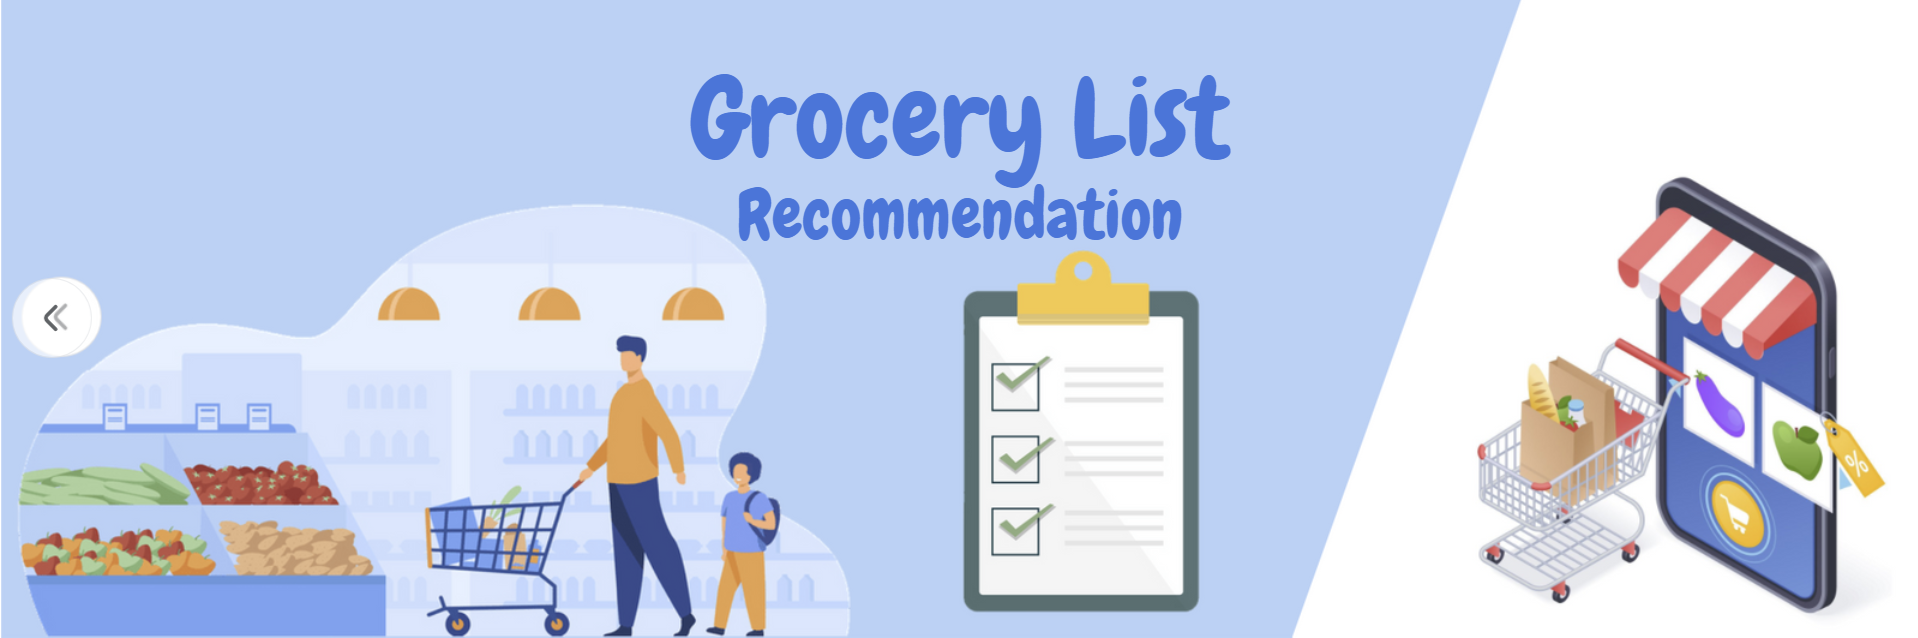
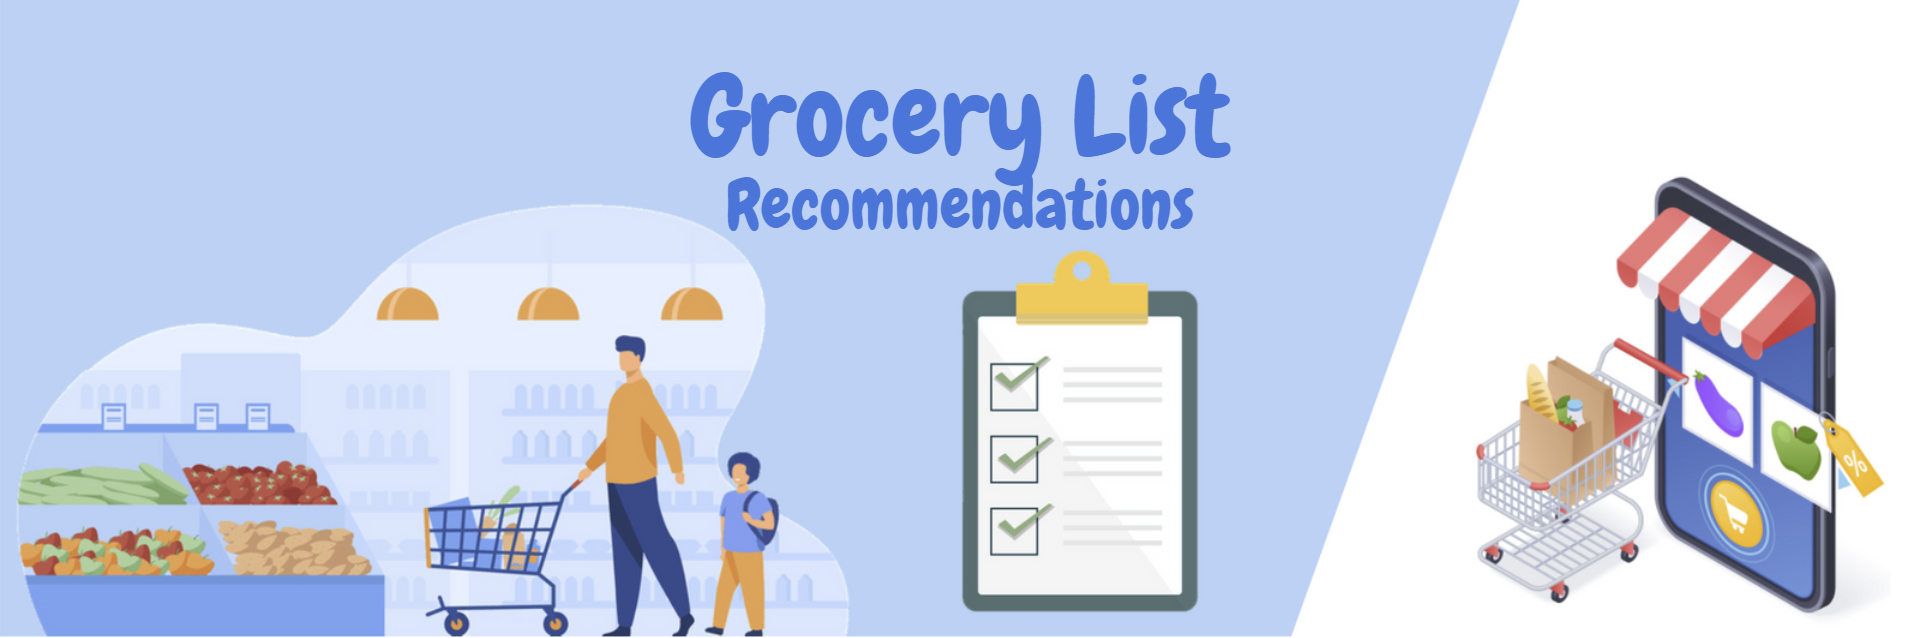
update

diff --git a/templates/cart.html b/templates/cart.html
@@ -12,7 +12,7 @@
 </head>
 <body style="background-color: white;">
 	<nav class="navbar navbar-expand-md" style ="background-color: #3773DA;height:60px;">
-        <a href="{{url_for('login_page')}}"><img src="./static/images/house-icon.png" style="width:30px;" alt= "main-page icon"></a>
+        <a href="{{url_for('login_page')}}"><img src="./static/images/house-icon.png" style="width:30px;" alt= "main-page icon" id="home-login"></a>
         <button class="navbar-toggler navbar-light" type="button" data-toggle="collapse" data-target="#navbarSupportedContent" aria-controls="navbarSupportedContent" aria-expanded="false" aria-label="Toggle navigation">
             <span class="navbar-toggler-icon"></span>
         </button>
@@ -55,22 +55,24 @@
                                 <th>Remove</th>
                             </tr>
                         </thead>
-                        <tbody>
+                        <tbody id="grocery-recommendations">
+                            {% for d in grocery_list: %}
                             <tr style="text-align:center;">
                                 <td class="thumbnail-img">
-                                    <a href="#">
-                                    <img class="img-fluid" src="images/vegevariety.png" alt="" style="width:90px;" >
-                                    </a>
+                                    <img class="img-fluid" src={{d.img}} alt="" style="width:120px;
+                                    height:120px;
+                                    border-radius: 25px;
+                                    border-color:#3773DA;
+                                    border-style: solid;
+                                    border-width: medium;">
                                 </td>
                                 <td class="name-pr">
-                                    <a href="#">
-                                Product Name
-                            </a>
+                                    {{d.product}}
                                 </td>
                                 <td class="price-pr">
                                     <p>$ 12.99</p>
                                 </td>
-                                <td class="quantity-box"><input type="number" size="4" value="1" min="0" step="1" class="c-input-text qty text"></td>
+                                <td class="quantity-box"><input type="number" size="3" value="1" min="0" step="1" class="c-input-text qty text"></td>
                                 <td class="total-pr">
                                     <p>$ 12.99</p>
                                 </td>
@@ -80,6 +82,7 @@
                             </a>
                                 </td>
                             </tr>
+                            {% endfor %}
                         </tbody>
                     </table>
                 </div>
@@ -108,7 +111,14 @@
 
         <!--Total Summary-->
         <div class="row my-5">
-            <div class="col-lg-8 col-sm-12"></div>
+            <div class="col-lg-8 col-sm-12">
+                <h6>You May Also Like...</h6>
+                <div class = "row">
+                    <div class="col-md-4">Product 1 </div>
+                    <div class="col-md-4">Product 2 </div>
+                    <div class="col-md-4">Product 3 </div>
+                </div>
+            </div>
             <div class="col-lg-4 col-sm-12">
                 <div class="order-box">
                     <h5>Order Summary</h5>

diff --git a/templates/landing.html b/templates/landing.html
@@ -41,7 +41,7 @@
     </nav>
     <div class="container-fluid">
         <div class="row">
-            <img src="./static/images/Banner1.PNG" class="img-fluid">
+            <img src="./static/images/Banner.PNG" class="img-fluid">
         </div>
     </div>
     <div class = "container-fluid" style="background-color:#3773da;padding:20px;">
@@ -109,7 +109,6 @@
         </div>
     </div>
 
-    
 	<script src="https://code.jquery.com/jquery-3.2.1.slim.min.js" integrity="sha384-KJ3o2DKtIkvYIK3UENzmM7KCkRr/rE9/Qpg6aAZGJwFDMVNA/GpGFF93hXpG5KkN" crossorigin="anonymous"></script>
 	<script src="https://cdnjs.cloudflare.com/ajax/libs/popper.js/1.12.9/umd/popper.min.js" integrity="sha384-ApNbgh9B+Y1QKtv3Rn7W3mgPxhU9K/ScQsAP7hUibX39j7fakFPskvXusvfa0b4Q" crossorigin="anonymous"></script>
 	<script src="https://maxcdn.bootstrapcdn.com/bootstrap/4.0.0/js/bootstrap.min.js" integrity="sha384-JZR6Spejh4U02d8jOt6vLEHfe/JQGiRRSQQxSfFWpi1MquVdAyjUar5+76PVCmYl" crossorigin="anonymous"></script> 

diff --git a/templates/login.html b/templates/login.html
@@ -80,6 +80,5 @@
 	<script src="https://code.jquery.com/jquery-3.2.1.slim.min.js" integrity="sha384-KJ3o2DKtIkvYIK3UENzmM7KCkRr/rE9/Qpg6aAZGJwFDMVNA/GpGFF93hXpG5KkN" crossorigin="anonymous"></script>
 	<script src="https://cdnjs.cloudflare.com/ajax/libs/popper.js/1.12.9/umd/popper.min.js" integrity="sha384-ApNbgh9B+Y1QKtv3Rn7W3mgPxhU9K/ScQsAP7hUibX39j7fakFPskvXusvfa0b4Q" crossorigin="anonymous"></script>
 	<script src="https://maxcdn.bootstrapcdn.com/bootstrap/4.0.0/js/bootstrap.min.js" integrity="sha384-JZR6Spejh4U02d8jOt6vLEHfe/JQGiRRSQQxSfFWpi1MquVdAyjUar5+76PVCmYl" crossorigin="anonymous"></script> 
-	<script src="app.js"></script>
 </body>
 </html>

diff --git a/static/js/app.js b/static/js/app.js
@@ -1,3 +1,6 @@
-d3.json("/cart").then(function(data) {
-    console.log(data);
+var home_login = d3.selectAll("#home-login")
+
+home_login.on("click", function(){
+    var grocery = d3.selectAll("#grocery-recommendations")
+    grocery.html("");
 })

diff --git a/static/css/style.css b/static/css/style.css
@@ -1,3 +1,12 @@
+/*Cart Page*/
+.cart-img{
+    width:120px;
+    height:120px;
+    border-radius: 25px;
+    border-color:#3773DA;
+    border-width: medium;
+}
+
 /*Login Page*/
 .user_card {
         height: 400px;

diff --git a/app.py b/app.py
@@ -39,6 +39,19 @@ store = Base.classes.store
 session = Session(engine)
 grocery_list = []
 
+# Grocery List Recommendations
+server = "grocery.cu51j1bqdgvr.us-east-2.rds.amazonaws.com"
+database = "postgres"
+port = "5432"
+username = "postgres"
+password = "postgres123"
+conn = f"postgres://{username}:{password}@{server}:{port}/{database}"
+
+user_df = pd.read_sql_table("user_df", conn)
+grocery_df = pd.read_sql_table("grocery_df", conn)
+orders = pd.read_sql_table("order_df", conn)
+cluster_top10 = pd.read_sql_table("cluster_top10_img", conn)
+
 # Main route to render index.html
 @app.route("/")
 def login_page():
@@ -53,55 +66,58 @@ def grocery():
         email = str(user_email)
         
         # Convert e-mail to user_id
-        user_df = pd.read_csv("data/user_df.csv")
         user_id = int(user_df.loc[user_df['email'] == email, 'user_id'])
         
         # Grab past order from 
-        order = pd.read_csv("data/order_df.csv")
-        order = order[order['user_id'] == user_id].sort_values('add_to_cart_order')
+        order = orders[orders['user_id'] == user_id].sort_values('add_to_cart_order')
         # Spilt repeat orders and non-repeat orders
         repeat = order[order['reordered'] > 0]
         nonrepeat = order[order['reordered'] == 0]
         
         # Grab user past orders in kmean prediction format
-        grocery_df = pd.read_csv("data/grocery_df.csv")
+        grocery_df = pd.read_sql_table("grocery_df", conn)
         user_order = grocery_df[grocery_df['user_id'] == user_id].drop('user_id', axis = 1)
         
         # Fit user_id on model, return cluster 
         kmeans = load('data/kmeans.joblib') 
         cluster_num = kmeans.predict(user_order.to_numpy())[0]
-        cluster_top10 = pd.read_csv("data/cluster_top10_img.csv")
         top10 = cluster_top10[cluster_top10['cluster'] == cluster_num]
         
         # Set starting variables
-        # grocery_list = []
         n = 0
-        for product in top10['product_name']:
-            url_list = top10.loc[top10['product_name']==product, 'img_url']
-            repeat_check = repeat[repeat['product_name'] == product]
-            nonrepeat_check = nonrepeat[nonrepeat['product_name'] == product]
-            
-            if (n==3):
+        for product in repeat['product_name']:
+            top10_check = top10[top10['product_name'] == product]
+            if (n == 3):
                 break
-            elif (not repeat_check.empty):
-                grocery_list.append((product,url_list))
+            elif (not top10_check.empty):
+                url_list = top10.loc[top10['product_name'] == product].img_url.item()
+                grocery_list.append({'product': product, 'img': url_list})
                 n = n + 1
+        
+        for product in nonrepeat['product_name']:
+            nonrepeat_check = nonrepeat[nonrepeat['product_name'] == product]
+            if (n == 3):
+                break
             elif (not nonrepeat_check.empty):
-                grocery_list.append((product,url_list))
+                url_list = top10.loc[top10['product_name'] == product].img_url.item()
+                grocery_list.append({'product': product, 'img': url_list})
                 n = n + 1
+        
+        for product in repeat['product_name']:
+            if (n == 3):
+                break
             else:
-                grocery_list.append((product,url_list))
-                n = n + 1 
+                url_list = top10.loc[top10['product_name'] == product].img_url.item()
+                grocery_list.append({'product': product, 'img': url_list})
+                n = n + 1
         return grocery_list
-    # Function function
+    # Call function
     recommendations(user_email)
     # Render Landing Page
     return render_template("landing.html", grocery_list = grocery_list)
 
 @app.route("/cart")
 def shopping_cart():
-    print('test')
-    print(grocery_list)
     return render_template('cart.html', grocery_list = grocery_list)
 
 
